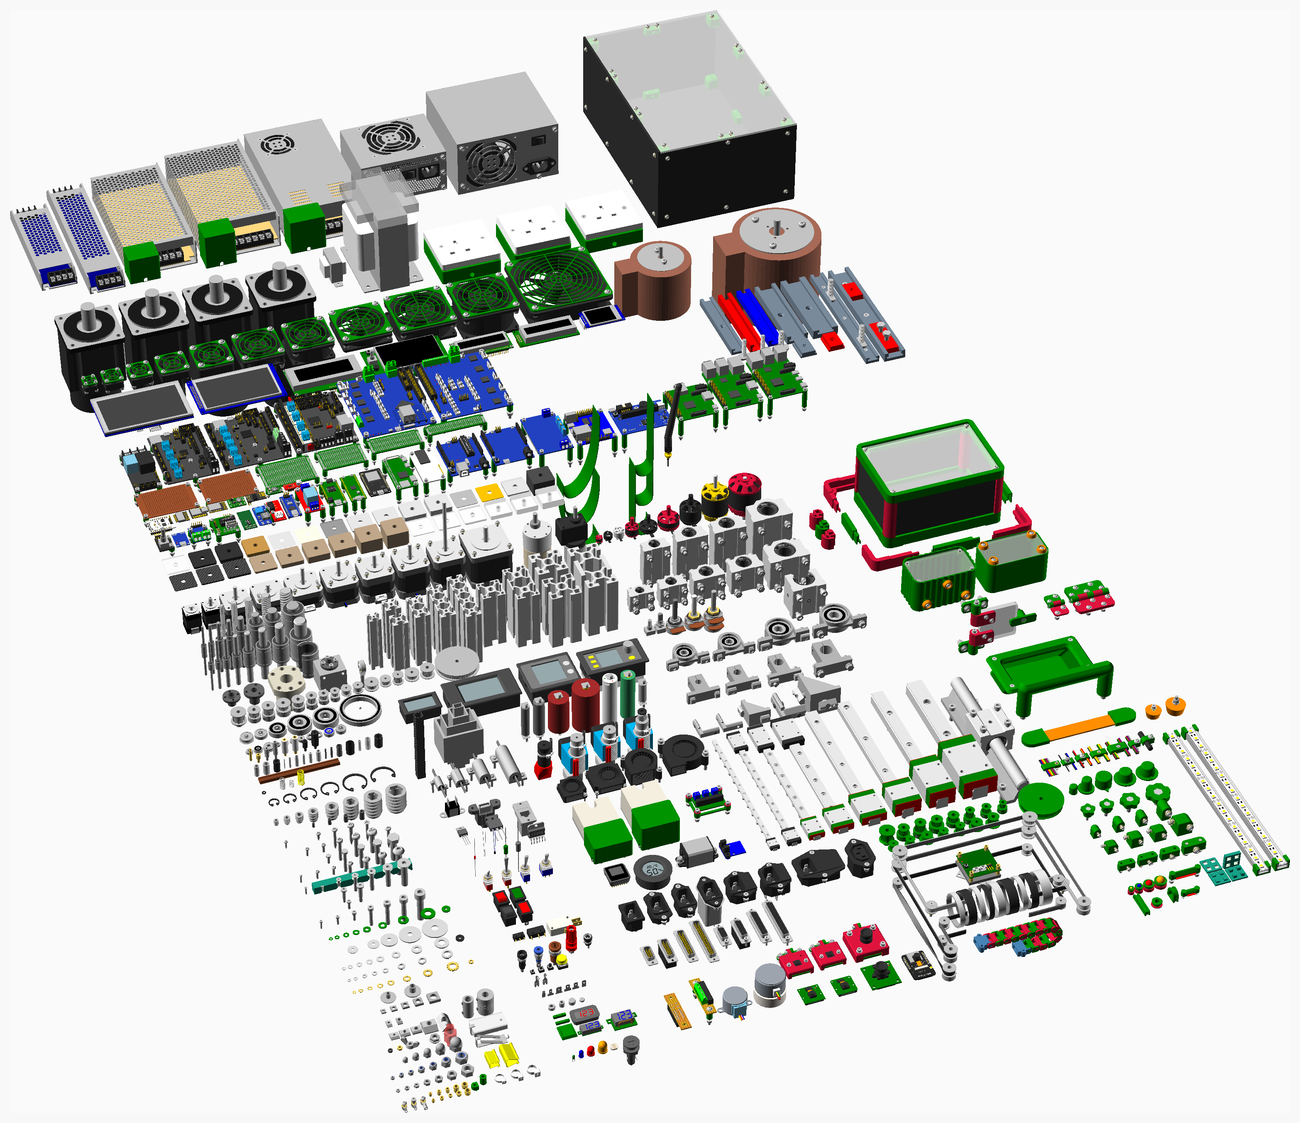
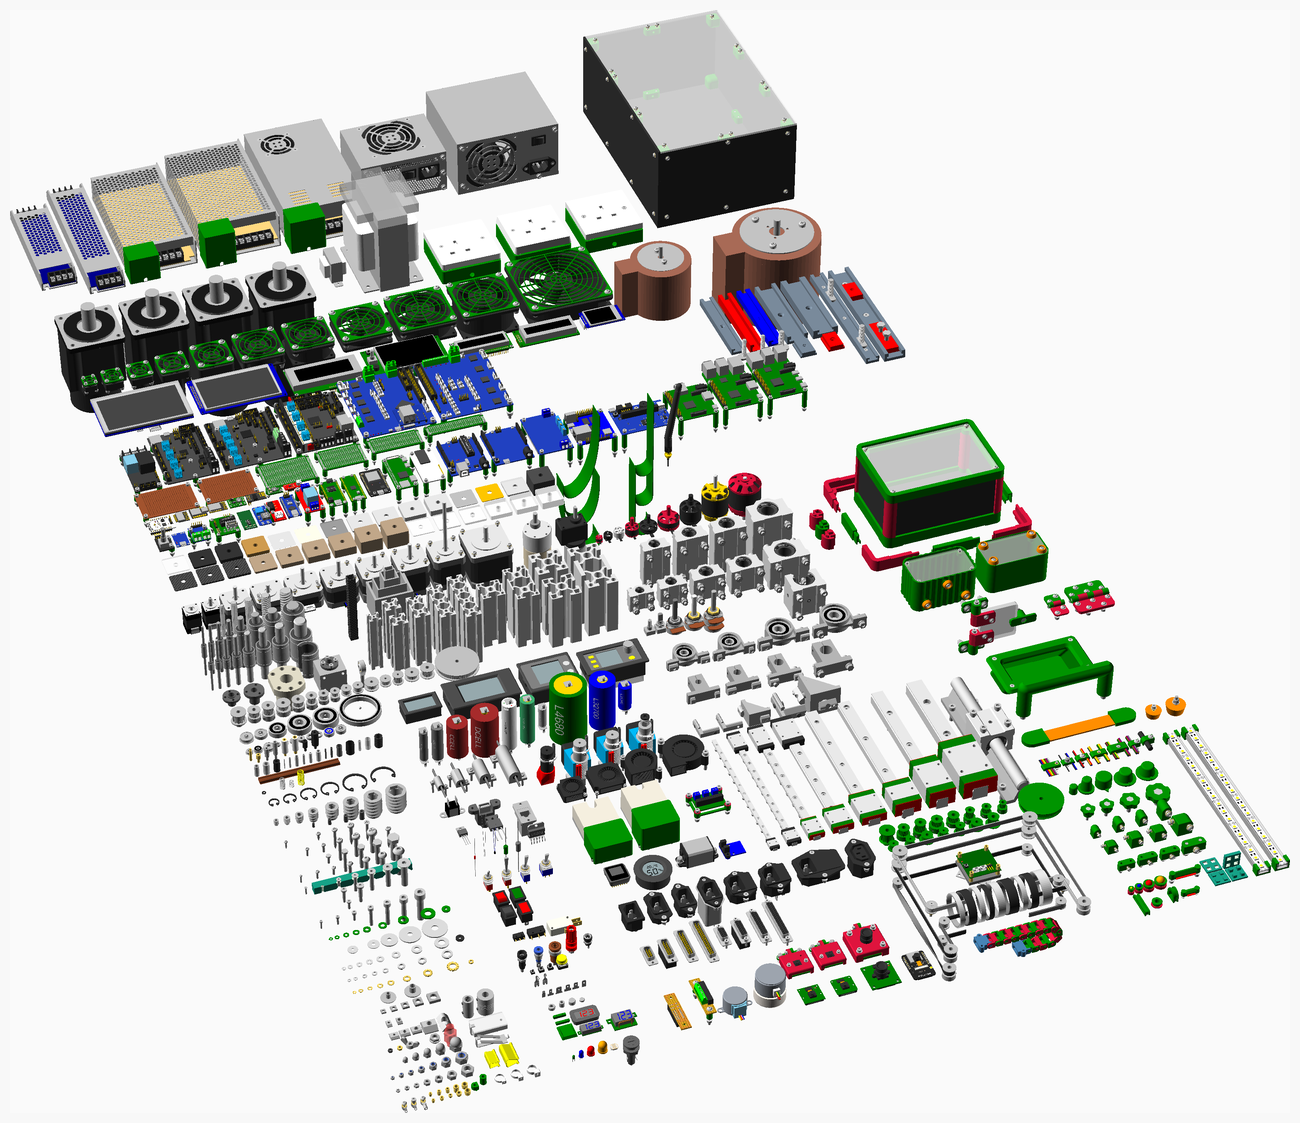
Updated images and readme.

Changed region(s): [[0.3077, 0.5922, 0.5231, 0.7168], [0.2462, 0.4987, 0.3385, 0.561]]

diff --git a/readme.md b/readme.md
@@ -275,6 +275,7 @@ exposing enough information to make a battery box.
 | `battery_neg_dia(type)` | Negative terminal diameter |
 | `battery_pos_dia(type)` | Positive terminal diameter |
 | `battery_pos_height(type)` | Positive terminal height above the casing |
+| `battery_type(type)` | Battery type |
 | `battery_usb_offset(type)` | USB connector offset from the top |
 | `contact_height(type)` | Height of the flat part |
 | `contact_neg(type)` | Negative spring height above the plate when compressed and the spring type |
@@ -296,8 +297,8 @@ exposing enough information to make a battery box.
 ### Vitamins
 | Qty | Module call | BOM entry |
 | ---:|:--- |:---|
-|   7 | `battery_contact(bcontact, false)` |  Battery negative contact |
-|   7 | `battery_contact(bcontact, true)` |  Battery positive contact |
+|  10 | `battery_contact(bcontact, false)` |  Battery negative contact |
+|  10 | `battery_contact(bcontact, true)` |  Battery positive contact |
 |   1 | `battery(A23CELL)` |  Cell A23 12v |
 |   1 | `battery(AACELL)` |  Cell AA |
 |   1 | `battery(AAACELL)` |  Cell AAA |
@@ -305,6 +306,9 @@ exposing enough information to make a battery box.
 |   1 | `battery(DCELL)` |  Cell D |
 |   1 | `battery(LUMINTOP)` |  Cell LUMINTOP 18650 LION with charger |
 |   1 | `battery(S25R18650)` |  Cell Samsung 25R 18650 LION |
+|   1 | `battery(L16340)` |  Li-Ion/LiFePo4 16340 3.2v |
+|   1 | `battery(L32700)` |  Li-Ion/LiFePo4 32700 3.2v |
+|   1 | `battery(L4680)` |  Li-Ion/LiFePo4 4680 3.2v |
 
 
 <a href="#top">Top</a>
